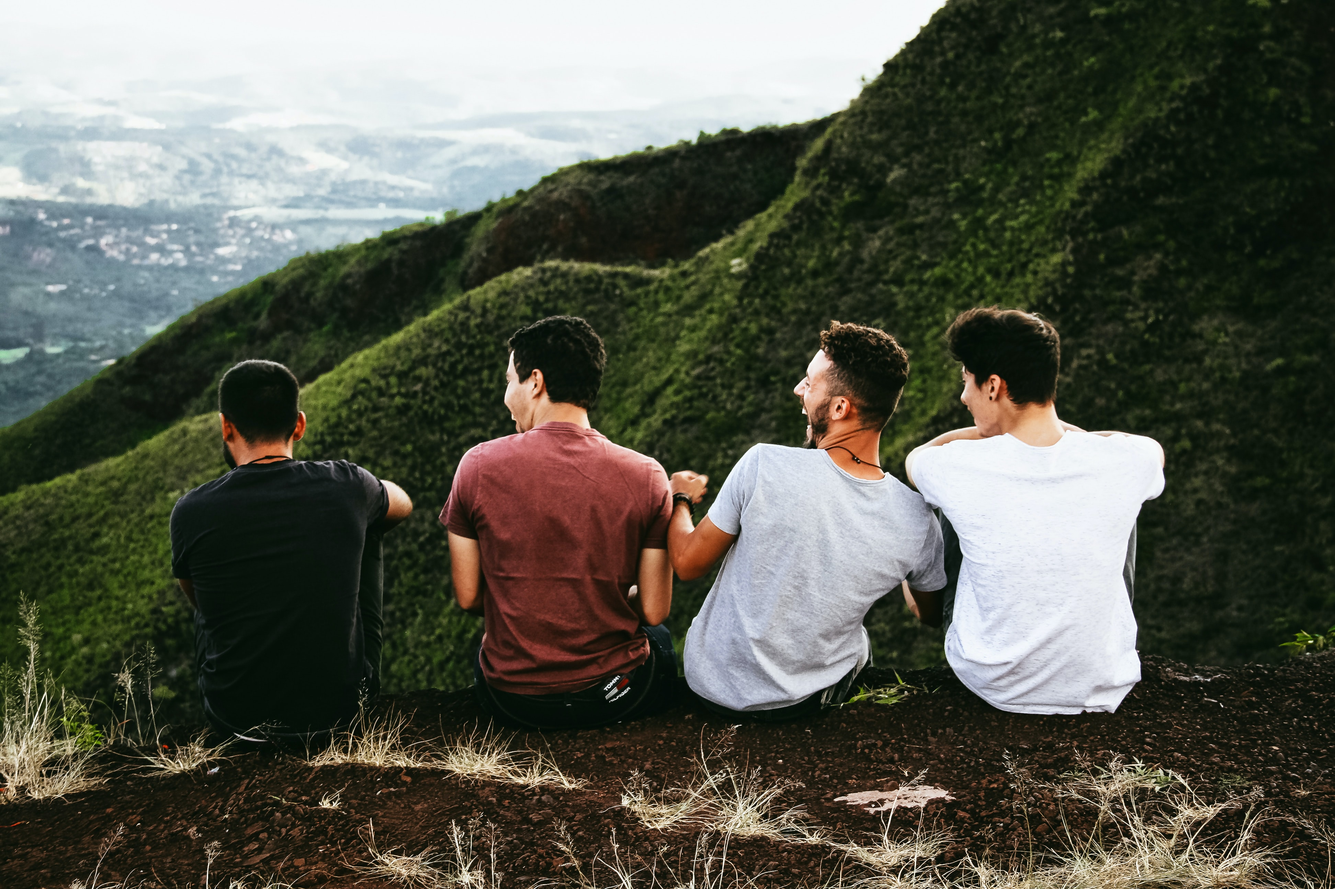
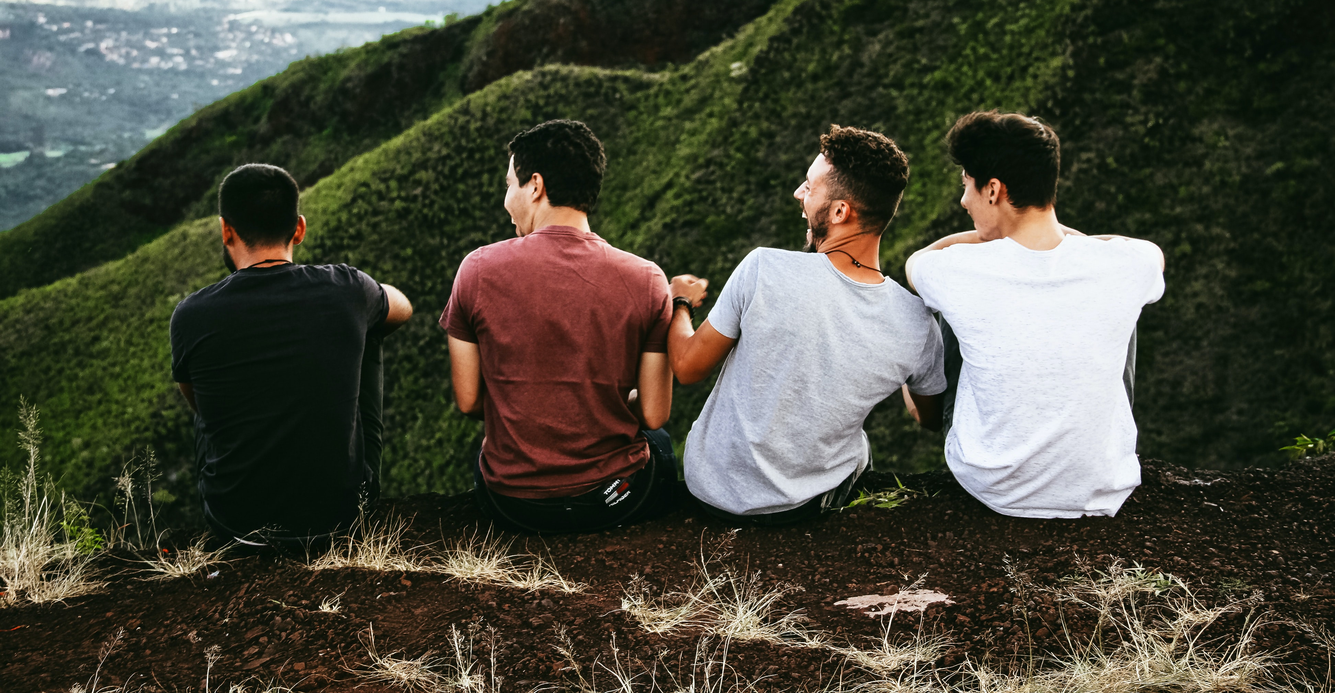
added showcase

diff --git a/index.html b/index.html
@@ -25,110 +25,140 @@
     <link rel="stylesheet" href="./styles/styles.css" />
   </head>
   <body>
-    <header>
-      <div id="logo">
-        <a href="#" title="logo-link">
-          <img src="./resources/logo.png" alt="codia logo"
-        /></a>
+    <header class="container-fluid bg-dark-2 fixed-top">
+      <div class="row">
+        <div class="col-4 pt-1 d-flex justify-content-end">
+          <div id="logo" class="m-2">
+            <a href="#" title="logo-link">
+              <img
+                class="img-fluid"
+                src="./resources/logo.png"
+                alt="codia logo"
+            /></a>
+          </div>
+        </div>
+        <div class="col-8">
+          <nav
+            class="navbar navbar-expand-sm d-flex justify-content-center"
+            id="navBar"
+          >
+            <ul class="navbar-nav">
+              <li class="nav-item">
+                <a class="nav-link" href="#">Home</a>
+              </li>
+              <li class="nav-item">
+                <a class="nav-link" href="#">About us</a>
+              </li>
+              <li class="nav-item">
+                <a class="nav-link" href="#">Our services</a>
+              </li>
+              <li class="nav-item">
+                <a class="nav-link" href="#">Our Team</a>
+              </li>
+              <li class="nav-item"><a class="nav-link" href="#">Contact</a></li>
+            </ul>
+          </nav>
+        </div>
       </div>
-      <nav id="navBar">
-        <a href="#">Our services</a>
-        <a href="#">about us</a>
-        <a href="#">contact</a>
-      </nav>
     </header>
-
-    <div id="showcase">
-      <img src="./resources/showcase.jpg" alt="happy people picture " />
-      <h1>Codia: A good ass website creation company</h1>
-      <h5>We create good shit for shitty people, give us your money !</h5>
-      <button>Hire us</button>
-      <button>take a look at our shit</button>
-    </div>
-
-    <div id="services">
-      <div class="card-2">
-        <h3>website design</h3>
-        <i class="fa fa-address-card-o fa-2x text-secondary"></i>
-        <p>
-          Lorem, ipsum dolor sit amet consectetur adipisicing elit. Suscipit,
-          praesentium vitae quasi harum obcaecati provident natus animi adipisci
-          accusamus, earum, sint consectetur quaerat. Aliquam illo fugit quo
-          soluta, error dolores.
-        </p>
-      </div>
-      <div class="card-2">
-        <h3>website design</h3>
-        <i class="fa fa-address-card-o fa-2x text-secondary"></i>
-        <p>
-          Lorem, ipsum dolor sit amet consectetur adipisicing elit. Suscipit,
-          praesentium vitae quasi harum obcaecati provident natus animi adipisci
-          accusamus, earum, sint consectetur quaerat. Aliquam illo fugit quo
-          soluta, error dolores.
-        </p>
-      </div>
-      <div class="card-2">
-        <h3>website design</h3>
-        <i class="fa fa-address-card-o fa-2x text-secondary"></i>
-        <p>
-          Lorem, ipsum dolor sit amet consectetur adipisicing elit. Suscipit,
-          praesentium vitae quasi harum obcaecati provident natus animi adipisci
-          accusamus, earum, sint consectetur quaerat. Aliquam illo fugit quo
-          soluta, error dolores.
-        </p>
-      </div>
-      <div class="card-2">
-        <h3>website design</h3>
-        <i class="fa fa-address-card-o fa-2x text-secondary"></i>
-        <p>
-          Lorem, ipsum dolor sit amet consectetur adipisicing elit. Suscipit,
-          praesentium vitae quasi harum obcaecati provident natus animi adipisci
-          accusamus, earum, sint consectetur quaerat. Aliquam illo fugit quo
-          soluta, error dolores.
-        </p>
+    <div id="showcase" class="row">
+      <div id="main-text" class="col-12 text-center">
+        <h1 class="text-white">Codia: A good ass website creation company</h1>
+        <h5 class="text-white">
+          We create good shit for shitty people, give us your money !
+        </h5>
+        <button type="button" class="btn btn-success">Hire us</button>
+        <button type="button" class="btn btn-info">
+          take a look at our shit
+        </button>
       </div>
     </div>
 
-    <div id="futured-prodects">
-      <div class="card-2">
-        <h3>website design</h3>
-        <img src="./resources/p1.jpg" alt="" />
-        <p>
-          Lorem, ipsum dolor sit amet consectetur adipisicing elit. Suscipit,
-          praesentium vitae quasi harum obcaecati provident natus animi adipisci
-          accusamus, earum, sint consectetur quaerat. Aliquam illo fugit quo
-          soluta, error dolores.
-        </p>
+    <div class="underdev">
+      <div id="services">
+        <div class="card-2">
+          <h3>website design</h3>
+          <i class="fa fa-address-card-o fa-2x text-secondary"></i>
+          <p>
+            Lorem, ipsum dolor sit amet consectetur adipisicing elit. Suscipit,
+            praesentium vitae quasi harum obcaecati provident natus animi
+            adipisci accusamus, earum, sint consectetur quaerat. Aliquam illo
+            fugit quo soluta, error dolores.
+          </p>
+        </div>
+        <div class="card-2">
+          <h3>website design</h3>
+          <i class="fa fa-address-card-o fa-2x text-secondary"></i>
+          <p>
+            Lorem, ipsum dolor sit amet consectetur adipisicing elit. Suscipit,
+            praesentium vitae quasi harum obcaecati provident natus animi
+            adipisci accusamus, earum, sint consectetur quaerat. Aliquam illo
+            fugit quo soluta, error dolores.
+          </p>
+        </div>
+        <div class="card-2">
+          <h3>website design</h3>
+          <i class="fa fa-address-card-o fa-2x text-secondary"></i>
+          <p>
+            Lorem, ipsum dolor sit amet consectetur adipisicing elit. Suscipit,
+            praesentium vitae quasi harum obcaecati provident natus animi
+            adipisci accusamus, earum, sint consectetur quaerat. Aliquam illo
+            fugit quo soluta, error dolores.
+          </p>
+        </div>
+        <div class="card-2">
+          <h3>website design</h3>
+          <i class="fa fa-address-card-o fa-2x text-secondary"></i>
+          <p>
+            Lorem, ipsum dolor sit amet consectetur adipisicing elit. Suscipit,
+            praesentium vitae quasi harum obcaecati provident natus animi
+            adipisci accusamus, earum, sint consectetur quaerat. Aliquam illo
+            fugit quo soluta, error dolores.
+          </p>
+        </div>
       </div>
-      <div class="card-2">
-        <h3>website design</h3>
-        <img src="./resources/p2.jpg" alt="" />
-        <p>
-          Lorem, ipsum dolor sit amet consectetur adipisicing elit. Suscipit,
-          praesentium vitae quasi harum obcaecati provident natus animi adipisci
-          accusamus, earum, sint consectetur quaerat. Aliquam illo fugit quo
-          soluta, error dolores.
-        </p>
-      </div>
-      <div class="card-2">
-        <h3>website design</h3>
-        <img src="./resources/p3.jpg" alt="" />
-        <p>
-          Lorem, ipsum dolor sit amet consectetur adipisicing elit. Suscipit,
-          praesentium vitae quasi harum obcaecati provident natus animi adipisci
-          accusamus, earum, sint consectetur quaerat. Aliquam illo fugit quo
-          soluta, error dolores.
-        </p>
-      </div>
-      <div class="card-2">
-        <h3>website design</h3>
-        <img src="./resources/p4.jpg" alt="" />
-        <p>
-          Lorem, ipsum dolor sit amet consectetur adipisicing elit. Suscipit,
-          praesentium vitae quasi harum obcaecati provident natus animi adipisci
-          accusamus, earum, sint consectetur quaerat. Aliquam illo fugit quo
-          soluta, error dolores.
-        </p>
+
+      <div id="futured-prodects">
+        <div class="card-2">
+          <h3>website design</h3>
+          <img src="./resources/p1.jpg" alt="" />
+          <p>
+            Lorem, ipsum dolor sit amet consectetur adipisicing elit. Suscipit,
+            praesentium vitae quasi harum obcaecati provident natus animi
+            adipisci accusamus, earum, sint consectetur quaerat. Aliquam illo
+            fugit quo soluta, error dolores.
+          </p>
+        </div>
+        <div class="card-2">
+          <h3>website design</h3>
+          <img src="./resources/p2.jpg" alt="" />
+          <p>
+            Lorem, ipsum dolor sit amet consectetur adipisicing elit. Suscipit,
+            praesentium vitae quasi harum obcaecati provident natus animi
+            adipisci accusamus, earum, sint consectetur quaerat. Aliquam illo
+            fugit quo soluta, error dolores.
+          </p>
+        </div>
+        <div class="card-2">
+          <h3>website design</h3>
+          <img src="./resources/p3.jpg" alt="" />
+          <p>
+            Lorem, ipsum dolor sit amet consectetur adipisicing elit. Suscipit,
+            praesentium vitae quasi harum obcaecati provident natus animi
+            adipisci accusamus, earum, sint consectetur quaerat. Aliquam illo
+            fugit quo soluta, error dolores.
+          </p>
+        </div>
+        <div class="card-2">
+          <h3>website design</h3>
+          <img src="./resources/p4.jpg" alt="" />
+          <p>
+            Lorem, ipsum dolor sit amet consectetur adipisicing elit. Suscipit,
+            praesentium vitae quasi harum obcaecati provident natus animi
+            adipisci accusamus, earum, sint consectetur quaerat. Aliquam illo
+            fugit quo soluta, error dolores.
+          </p>
+        </div>
       </div>
     </div>
 

diff --git a/styles/styles.css b/styles/styles.css
@@ -1,0 +1,22 @@
+.underdev {
+  display: none;
+  visibility: hidden;
+}
+#logo {
+  width: 9rem;
+  height: auto;
+}
+#showcase {
+  background-image: url(../resources/showcase2.jpg);
+  background-size: cover;
+  height: 700px;
+}
+#main-text {
+  position: absolute;
+  top: 38%;
+  width: 100%;
+}
+
+.bg-dark-2 {
+  background-color: rgba(52, 58, 64, 0.9);
+}
